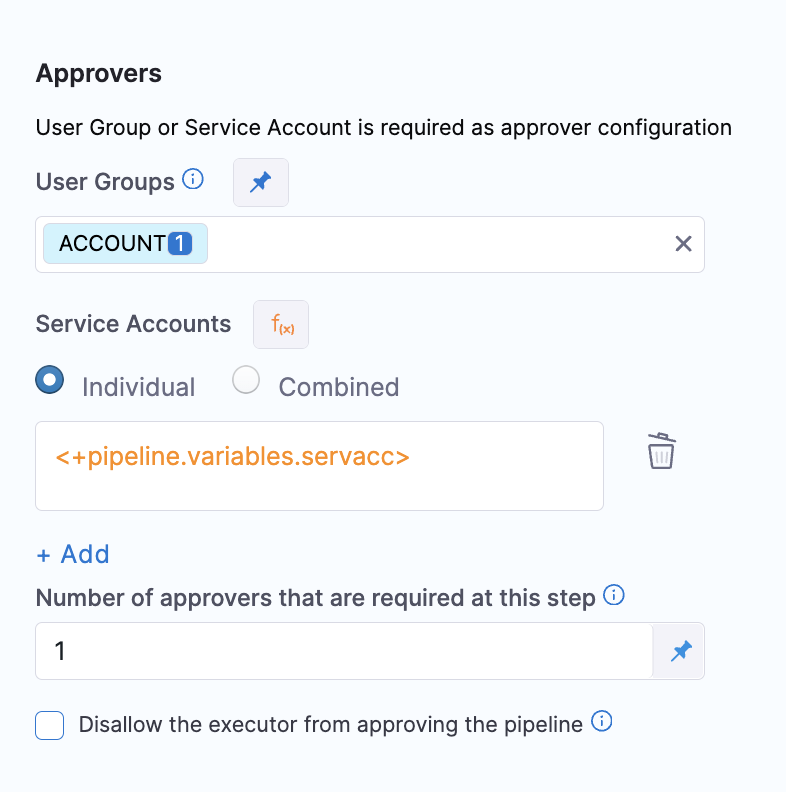
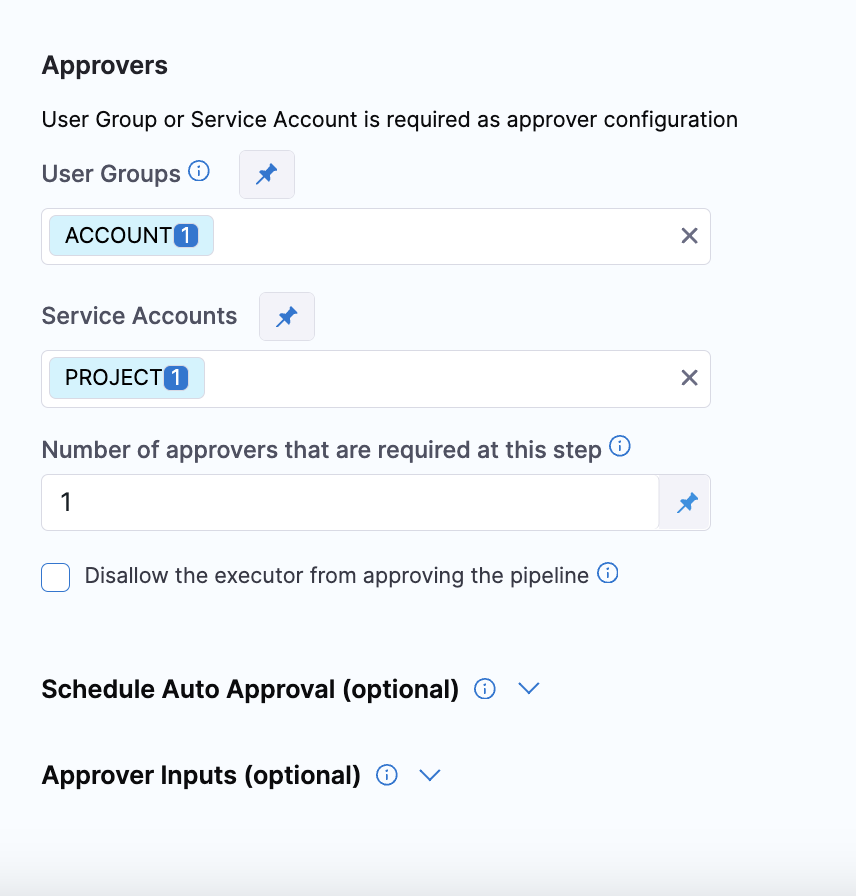
update

diff --git a/docs/platform/approvals/adding-harness-approval-stages.md b/docs/platform/approvals/adding-harness-approval-stages.md
@@ -403,7 +403,7 @@ You can approve requests using a Service Account token.
 
  Configure Manual Approval Stage
 
-In the manual approval stage, select whether to use an individual service account or a combination (if more than one approval is needed). Set the input type as **Expression**.
+In the manual approval stage, select whether to use an individual service account or a combination (if more than one approval is needed). Set the input type as **Fixed value**.
 
 ![](./static/approval-using-service-account.png)
 
@@ -424,9 +424,8 @@ Here's an example YAML file showcasing the configurations you can use.
         minimumCount: 1
         disallowPipelineExecutor: false
         serviceAccounts:
-          - <+pipeline.variables.servacc>
+          - org.serviceAccountId
       approverInputs: []
-    timeout: 1d
 ```
 
 Follow the instructions [here](https://developer.harness.io/docs/platform/role-based-access-control/add-and-manage-service-account/) to create a service account token.
@@ -441,6 +440,8 @@ In the body of your request, include the following:
    - `action` (e.g., Approve or Reject)
 
 Execute the API call. The request will trigger the approval process. Based on the action specified in the request body, the pipeline will be either approved or rejected.
+
+Note: Along with Fixed value, expressions are also supported for userGroups, providing more flexibility in your approval configurations
 
 ### Approval notifications to approvers
 
